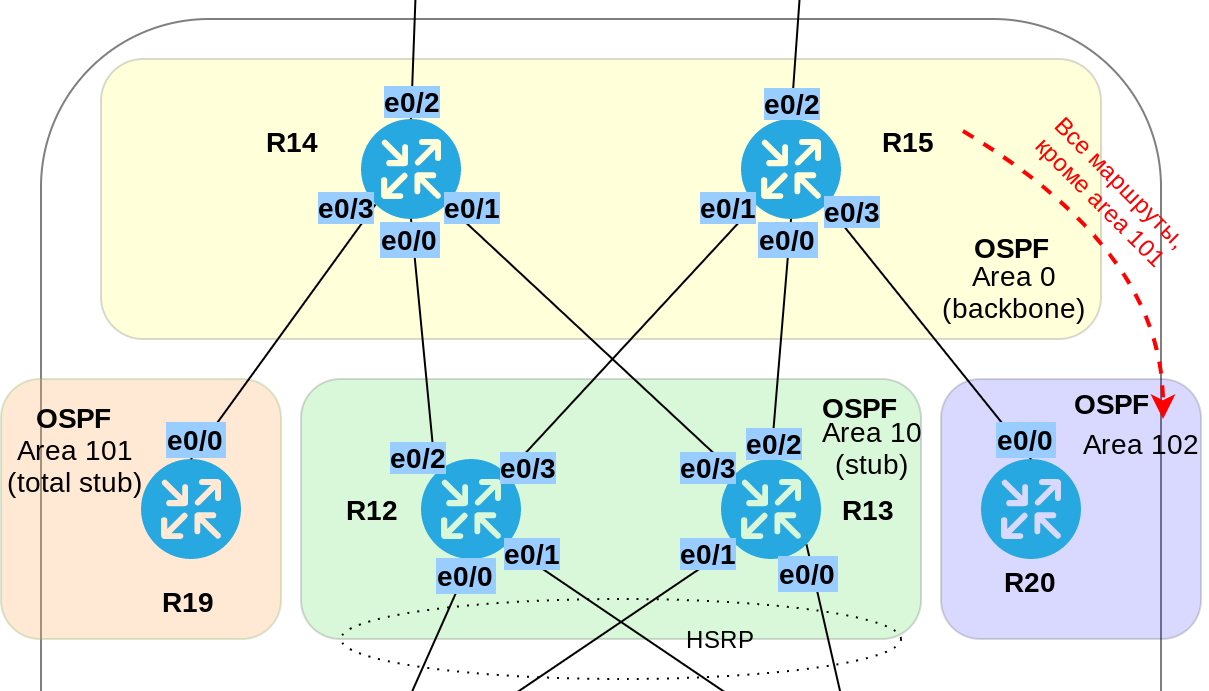
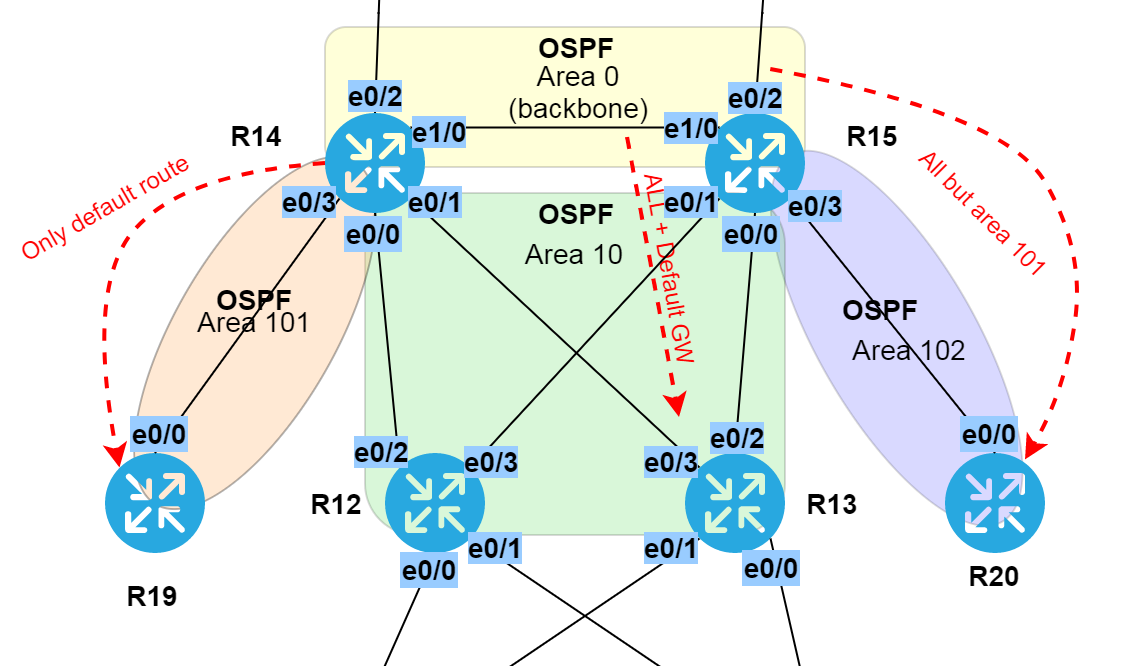
change template Lab09

diff --git a/Labs/Lab09/README.md b/Labs/Lab09/README.md
@@ -28,7 +28,6 @@
 
 #### 2. Маршрутизаторы R12-R13 должны находяться в зоне 10. Дополнительно к маршрутам должны получать маршрут по-умолчанию
 
-Как видно из схемы сети, зона 10 является тупиковой зоной,за ней располагаются только коммутаторы и конечные пользователи. В данном случае, для фильтрации маршрутов воспользуемся фильтрацией на уровне типа зоны. Назначим 10-ой зоне тип __stub__.
 
 <details>
  <summary>Настройка R12-R13</summary>
@@ -40,8 +39,6 @@
 
 #### 3. Маршрутизатор R19 должен находиться в зоне 101 и получать только маршрут по умолчанию
 
-Маршрутизатор R19 находится в тупиковой зоне. Дополнительных маршрутов, кроме по-умолчанию, не требуется. Подойдёт фильтрация зоны __total stub__.
-
 <details>
  <summary>Настройка R19</summary>
 
@@ -52,7 +49,6 @@
 
 #### 4. Маршрутизатор R20 должен находиться в зоне 102 и получать все маршруты, кроме маршрутов до сетей зоны 101.
 
-В данном случае, фильтрация по типам зон не подойдёт. Нужно применить фильтрация по типу LSA. Нужно отфильтровать суммарный маршрут зоны 101. Используем __prefix-list__ для фильтрации __LSA 3__.
 <details>
  <summary>Настройка R20</summary>
 
